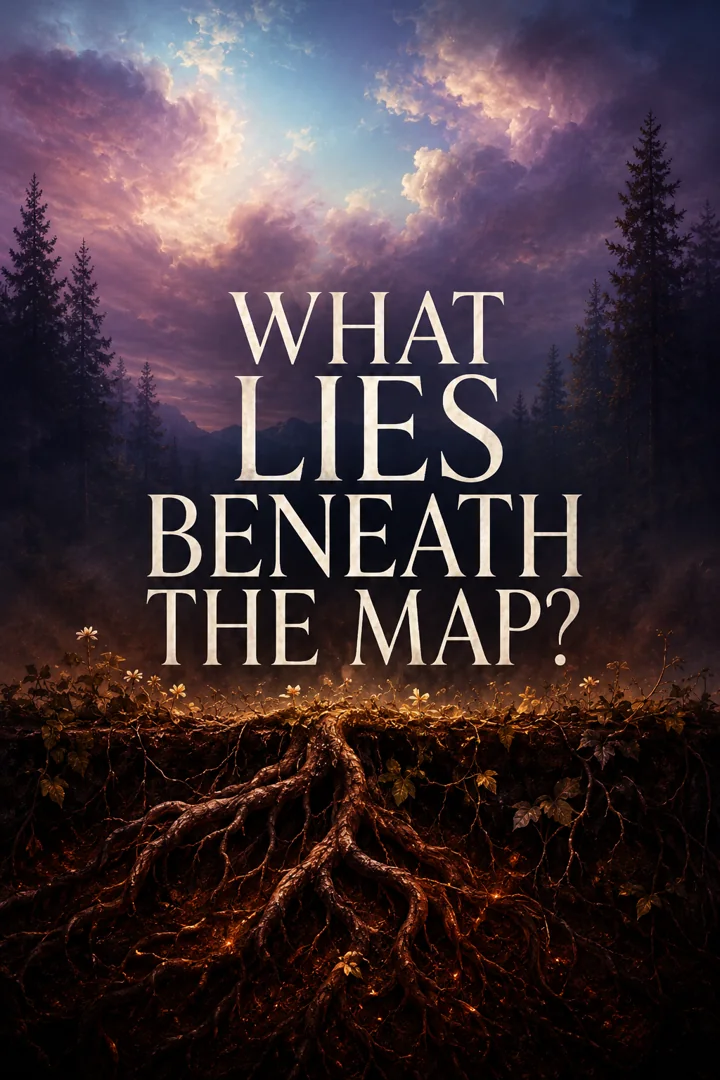
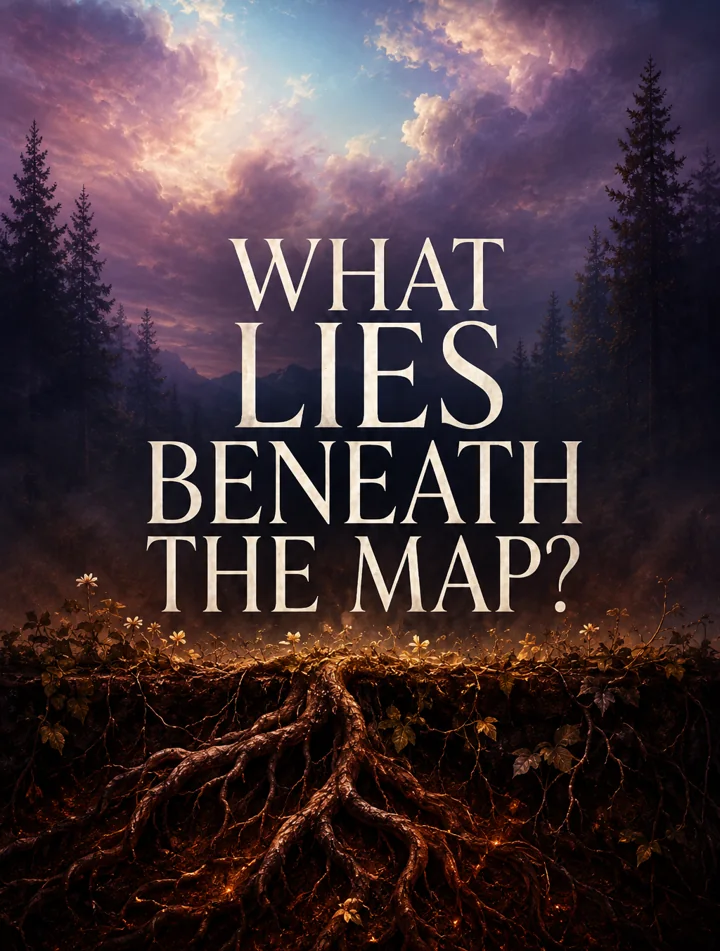
CID: balance the Underground header — bold/even lede + trimmed poster
- Lede paragraph: bold the key phrases (second-largest landmass, longest
  coastline in the world, strong foundation for sustainable economic
  development) and narrow it with text-wrap: balance so the lines even out
  instead of stranding 'development.' on its own line
- Trim the 'What lies beneath the map?' poster: crop a touch off the top and
  cut the bottom at the seedling (~93%), dropping the dark lower band; ratio
  1.5 -> 1.32 (whatlies.webp re-encoded, 720x951)
- Narrow the poster column (clamp 185-232px) so the trimmed poster now sits
  about flush with the left content instead of dropping ~60px below it

Claude-Session: https://claude.ai/code/session_01JdJJzQVDyRy6sqpR2U8vH6

diff --git a/src/app/components/CID.tsx b/src/app/components/CID.tsx
@@ -558,10 +558,11 @@ function Underground() {
             </p>
             <h2 id="cid-underground-title" className="cid-underground-title">Underground &amp; terrain</h2>
             <div className="cid-ug-intro">
-              <p>
-                With the second-largest landmass and the longest coastline in the world,
-                Canada&rsquo;s mighty size and expansive geography provide a strong foundation for
-                sustainable economic development.
+              <p className="cid-ug-lede">
+                With the <strong>second-largest landmass</strong> and the{" "}
+                <strong>longest coastline in the world</strong>, Canada&rsquo;s mighty size and
+                expansive geography provide a{" "}
+                <strong>strong foundation for sustainable economic development.</strong>
               </p>
               <p>
                 Hyperscale growth in AI and digitization has exponentially increased demand for
@@ -579,7 +580,7 @@ function Underground() {
               loading="lazy"
               decoding="async"
               width={720}
-              height={1080}
+              height={951}
             />
           </figure>
         </header>

diff --git a/src/styles/cid-forest.css b/src/styles/cid-forest.css
@@ -190,7 +190,9 @@
    (right) with its subtitle. The poster replaces the old text lead line. ---- */
 .cid-scope .cid-ug-head--split {
   display: grid;
-  grid-template-columns: minmax(0, 1fr) clamp(210px, 22vw, 288px);
+  /* poster column sized so the (now trimmed) poster sits about flush with the
+     left content instead of dropping below it */
+  grid-template-columns: minmax(0, 1fr) clamp(185px, 18vw, 232px);
   gap: clamp(24px, 3vw, 52px);
   align-items: center;
 }
@@ -220,6 +222,13 @@
   color: #E8DCC0; /* warm cream, echoing the poster's type */
   max-width: 42ch;
 }
+/* Lede paragraph: a touch narrower + balanced wrapping so the lines even out
+   instead of stranding "development." on a line of its own. */
+.cid-scope .cid-ug-lede {
+  max-width: 27em;
+  text-wrap: balance;
+}
+.cid-scope .cid-ug-lede strong { color: #fff; }
 @media (max-width: 900px) {
   /* stack; poster + subtitle sit under the intro text, centred */
   .cid-scope .cid-ug-head--split { grid-template-columns: 1fr; }